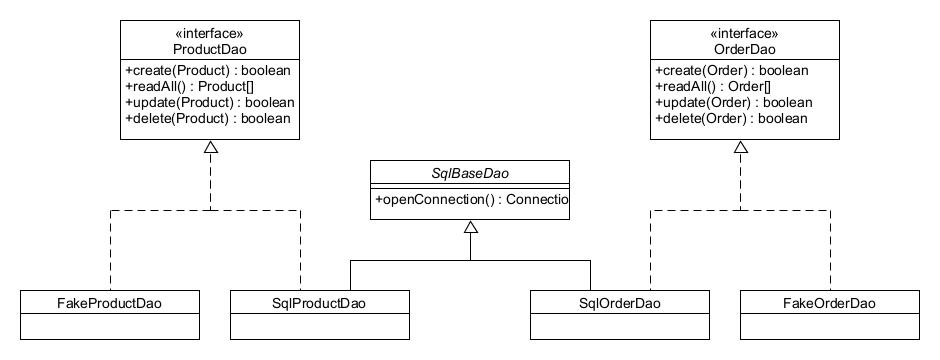
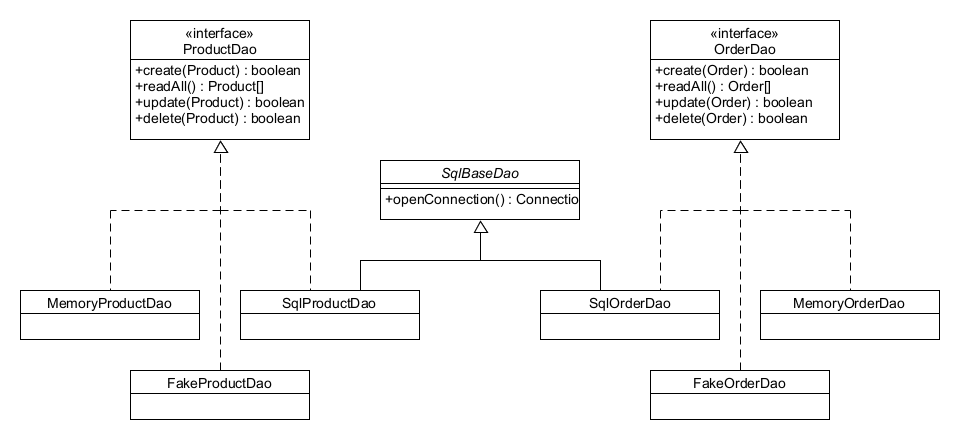
updated documentation and renamed memory daos

diff --git a/CafeSanchezPOS/src/dataAccess/fake/MemoryOrderDao.java b/CafeSanchezPOS/src/dataAccess/fake/MemoryOrderDao.java
@@ -3,34 +3,35 @@ package dataAccess.fake;
 import java.util.ArrayList;
 import java.util.List;
 
-import dataAccess.ProductDao;
-import model.Product;
+import dataAccess.OrderDao;
+import model.Order;
 
-public class FakeProductDao implements ProductDao{
-
-	List<Product> products = new ArrayList<>();
+public class MemoryOrderDao implements OrderDao {
 	
+	List<Order> orders = new ArrayList<>();
+
 	@Override
-	public Product create(Product product) {
+	public Order create(Order order) {
 		// TODO Auto-generated method stub
 		return null;
 	}
 
 	@Override
-	public List<Product> readAll() {
+	public List<Order> readAll() {
 		// TODO Auto-generated method stub
 		return null;
 	}
 
 	@Override
-	public boolean update(Product product) {
+	public boolean update(Order order) {
 		// TODO Auto-generated method stub
 		return false;
 	}
 
 	@Override
-	public boolean delete(Product product) {
+	public boolean delete(Order order) {
 		// TODO Auto-generated method stub
 		return false;
 	}
+
 }

diff --git a/CafeSanchezPOS/src/dataAccess/fake/MemoryProductDao.java b/CafeSanchezPOS/src/dataAccess/fake/MemoryProductDao.java
@@ -3,35 +3,34 @@ package dataAccess.fake;
 import java.util.ArrayList;
 import java.util.List;
 
-import dataAccess.OrderDao;
-import model.Order;
+import dataAccess.ProductDao;
+import model.Product;
 
-public class FakeOrderDao implements OrderDao {
+public class MemoryProductDao implements ProductDao{
+
+	List<Product> products = new ArrayList<>();
 	
-	List<Order> orders = new ArrayList<>();
-
 	@Override
-	public Order create(Order order) {
+	public Product create(Product product) {
 		// TODO Auto-generated method stub
 		return null;
 	}
 
 	@Override
-	public List<Order> readAll() {
+	public List<Product> readAll() {
 		// TODO Auto-generated method stub
 		return null;
 	}
 
 	@Override
-	public boolean update(Order order) {
+	public boolean update(Product product) {
 		// TODO Auto-generated method stub
 		return false;
 	}
 
 	@Override
-	public boolean delete(Order order) {
+	public boolean delete(Product product) {
 		// TODO Auto-generated method stub
 		return false;
 	}
-
 }

diff --git a/CafeSanchezPOS/src/dataAccess/DaoFactory.java b/CafeSanchezPOS/src/dataAccess/DaoFactory.java
@@ -1,7 +1,7 @@
 package dataAccess;
 
-import dataAccess.fake.FakeOrderDao;
-import dataAccess.fake.FakeProductDao;
+import dataAccess.fake.MemoryOrderDao;
+import dataAccess.fake.MemoryProductDao;
 import dataAccess.sql.SqlOrderDao;
 import dataAccess.sql.SqlProductDao;
 
@@ -18,7 +18,7 @@ public class DaoFactory {
 
 		switch (this.factoryType) {
 		case Memory:
-			return new FakeOrderDao();
+			return new MemoryOrderDao();
 		case Sql:
 			return new SqlOrderDao();
 		default:
@@ -30,7 +30,7 @@ public class DaoFactory {
 
 		switch (this.factoryType) {
 		case Memory:
-			return new FakeProductDao();
+			return new MemoryProductDao();
 		case Sql:
 			return new SqlProductDao();
 		default:

diff --git a/README.md b/README.md
@@ -74,6 +74,12 @@ The domain model allows the system to represent the relationship between these t
 
 ### Data Access
 
+The Data Access Layer (DAL) is a component of an application that provides a bridge between the application and the data storage, allowing the application to interact with the data without knowing its exact method of storage. So, the purpose of the DAL is to abstract the database from the rest of the application, so that changes to the database structure or technology do not require changes to the application code.
+
+The DAL typically includes methods for creating, reading, updating, and deleting (CRUD) data in the data storage, but the actual storage should be hidden from the methods using the data. It can be designed to work with different data storage technologies, making it easier to switch storage technology if necessary. 
+
+In the Café Sanchez POS system, the DAL contains two interfaces; OrderDao and ProductDao. As the name implies they are data access objects, but since they are defined as interfaces, their implementation can be hidden from the methods using them, and it is possible to implement a dao class that communicates with an SQL Server or one that simply stores data in memory. It could also be useful to implement a fake dao class for test purposes.
+
 **OrderDao Interface**
 
 **ProductDao Interface**
@@ -82,7 +88,7 @@ The domain model allows the system to represent the relationship between these t
 
 ![E/R-Diagram][erdiagram]
 
-[architecture]: /Graphics/Architecture.svg "Architecture" 
+[architecture]: /Graphics/ "Architecture" 
 [mainwindow]: /Graphics/screen1.png "Main screen with active orders"
 [newordermodal]: /Graphics/screen2.png "Dialog for creating new orders"
 [businesslayer]: /Graphics/business_layer.png "Business Logic Layer"
